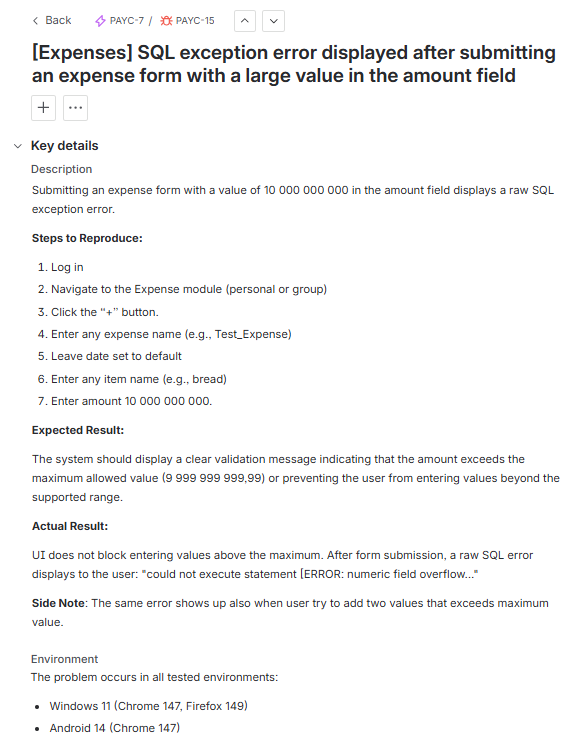
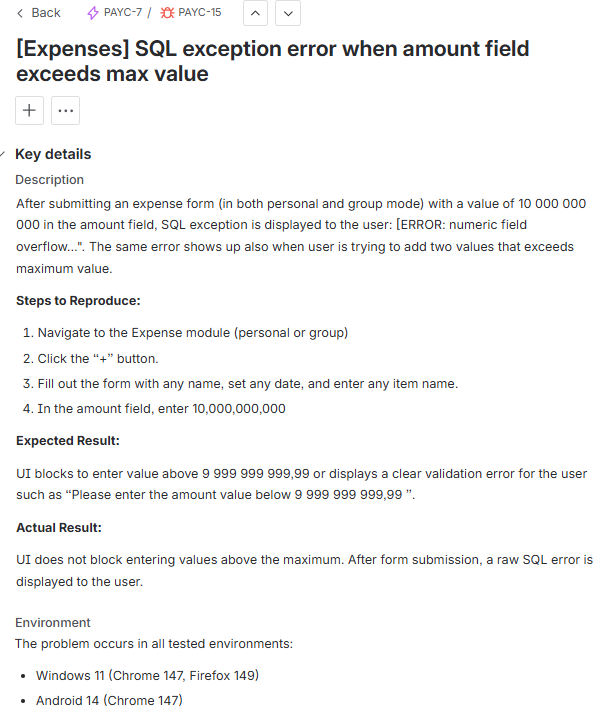
fix minor inconsistencies

Changed region(s): [[0.0307, 0.0, 0.9813, 0.9805]]

diff --git a/README.md b/README.md
@@ -62,7 +62,7 @@ To test permissions of group member's roles, I created roles and permissions mat
 
 📝 **Link to the matrix with test results**: [Permissions-Tests](https://github.com/joannabrodowicz/Paychi-manual-testing/blob/main/docs/Permissions_Tests.md)
 
-Visual tests (UI consistency and responsiveness) I conducted using an exploratory method.
+Visual tests (UI consistency and responsiveness) I conducted using an exploratory method and documented with bug reports.
 
 ---
 
@@ -70,10 +70,14 @@ Visual tests (UI consistency and responsiveness) I conducted using an explorator
 
 Below is a table with examples of bugs I found during the testing process - more bugs are available at repository:
 
-| #   | Name                                                                     | Priority   | Impact                                                                                                                                           | Bug report                                                                                                                                              | Evidences                                                                                                                                                                                                                                                                        |
-| --- | ------------------------------------------------------------------------ | ---------- | ------------------------------------------------------------------------------------------------------------------------------------------------ | ------------------------------------------------------------------------------------------------------------------------------------------------------- | -------------------------------------------------------------------------------------------------------------------------------------------------------------------------------------------------------------------------------------------------------------------------------- |
-| 1   | Registration is blocked when the Name already exist in DB                | **High**   | Block new users with the same name from creating an account                                                                                      | [Jira-PAYC-03](https://raw.githubusercontent.com/joannabrodowicz/Paychi-manual-testing/main/Bug-Reports/Functional/PAYC-3/Bug-report-Jira-PAYC-03.png)  | [Evidence](https://raw.githubusercontent.com/joannabrodowicz/Paychi-manual-testing/main/Bug-Reports/Functional/PAYC-3/evidence.png)                                                                                                                                              |
-| 2   | Items are overwritten when two users edit the same shopping list         | **High**   | This bug negatively impacts the usability of the group shopping list feature.                                                                    | [Jira-PAYC-33](https://raw.githubusercontent.com/joannabrodowicz/Paychi-manual-testing/main/Bug-Reports/Functional/PAYC-33/Bug-report-Jira-PAYC-33.png) | [Evidence](https://www.loom.com/share/494e7aa5a2f84fd288dac4521c55ca02)                                                                                                                                                                                                          |
-| 3   | SQL exception after submitting an expense form with a large amount value | **Medium** | Exposes internal database error details to the user. It happens only with very large numbers exceeding 9 999 999 999,99                          | [Jira-PAYC-15](https://raw.githubusercontent.com/joannabrodowicz/Paychi-manual-testing/main/Bug-Reports/Functional/PAYC-15/Bug-report-Jira-PAYC-15.png) | [Evidence 1](https://raw.githubusercontent.com/joannabrodowicz/Paychi-manual-testing/main/Bug-Reports/Functional/PAYC-15/evidence1.png), [Evidence 2](https://raw.githubusercontent.com/joannabrodowicz/Paychi-manual-testing/main/Bug-Reports/Functional/PAYC-15/evidence2.png) |
-| 4   | Sidebar is not scrollable when shopping lists and expenses are expanded  | **Medium** | Users on small screens can't access all navigation elements                                                                                      | [Jira-PAYC-26](https://raw.githubusercontent.com/joannabrodowicz/Paychi-manual-testing/main/Bug-Reports/Visual/PAYC-26/Bug-report-Jira-PAYC-26.png)     | [Evidence 1](https://raw.githubusercontent.com/joannabrodowicz/Paychi-manual-testing/main/Bug-Reports/Visual/PAYC-26/evidence1.png), [Evidence 2](https://raw.githubusercontent.com/joannabrodowicz/Paychi-manual-testing/main/Bug-Reports/Visual/PAYC-26/evidence2.png)         |
-| 5   | The date of the shopping list is changing after adding an item           | **Medium** | The bug negatively impacts the usability of the date setting feature and affects the display of the list in appropriate calendar day and filter. | [Jira-PAYC-30](https://raw.githubusercontent.com/joannabrodowicz/Paychi-manual-testing/main/Bug-Reports/Functional/PAYC-30/Bug-report-Jira-PAYC-30.png) | [Evidence](https://www.loom.com/share/be98ecb7aaea4289ad8cb32c1950b1ad)                                                                                                                                                                                                          |
+| #   | Name                                                                    | Priority   | Impact                                                                                                                                           | Bug report                                                                                                                                              | Evidences                                                                                                                             |
+| --- | ----------------------------------------------------------------------- | ---------- | ------------------------------------------------------------------------------------------------------------------------------------------------ | ------------------------------------------------------------------------------------------------------------------------------------------------------- | ------------------------------------------------------------------------------------------------------------------------------------- |
+| 1   | Registration is blocked when the Name already exist in DB               | **High**   | Block new users with the same name from creating an account (already fixed)                                                                      | [Jira-PAYC-03](https://raw.githubusercontent.com/joannabrodowicz/Paychi-manual-testing/main/Bug-Reports/Functional/PAYC-3/Bug-report-Jira-PAYC-03.png)  | [Evidence](https://raw.githubusercontent.com/joannabrodowicz/Paychi-manual-testing/main/Bug-Reports/Functional/PAYC-3/evidence.png)   |
+| 2   | Items are overwritten when two users edit the same shopping list        | **High**   | This bug negatively impacts the usability of the group shopping list feature.                                                                    | [Jira-PAYC-33](https://raw.githubusercontent.com/joannabrodowicz/Paychi-manual-testing/main/Bug-Reports/Functional/PAYC-33/Bug-report-Jira-PAYC-33.png) | [Evidence](https://www.loom.com/share/494e7aa5a2f84fd288dac4521c55ca02)                                                               |
+| 3   | SQL exception error when amount field exceeds max value                 | **High**   | Exposes internal database error details to the user\*. It happens only with very large numbers exceeding 9 999 999 999,99                        | [Jira-PAYC-15](https://raw.githubusercontent.com/joannabrodowicz/Paychi-manual-testing/main/Bug-Reports/Functional/PAYC-15/Bug-report-Jira-PAYC-15.png) | [Evidence](https://raw.githubusercontent.com/joannabrodowicz/Paychi-manual-testing/main/Bug-Reports/Functional/PAYC-15/evidence1.png) |
+| 4   | Sidebar is not scrollable when shopping lists and expenses are expanded | **Medium** | Users on small screens can't access all navigation elements                                                                                      | [Jira-PAYC-26](https://raw.githubusercontent.com/joannabrodowicz/Paychi-manual-testing/main/Bug-Reports/Visual/PAYC-26/Bug-report-Jira-PAYC-26.png)     | [Evidence](https://raw.githubusercontent.com/joannabrodowicz/Paychi-manual-testing/main/Bug-Reports/Visual/PAYC-26/evidence1.png)     |
+| 5   | The date of the shopping list is changing after adding an item          | **Medium** | The bug negatively impacts the usability of the date setting feature and affects the display of the list in appropriate calendar day and filter. | [Jira-PAYC-30](https://raw.githubusercontent.com/joannabrodowicz/Paychi-manual-testing/main/Bug-Reports/Functional/PAYC-30/Bug-report-Jira-PAYC-30.png) | [Evidence](https://www.loom.com/share/be98ecb7aaea4289ad8cb32c1950b1ad)                                                               |
+
+### Notes
+
+Some evidence (such as payloads or full API responses) has been intentionally omitted because it contained sensitive or restricted technical data.